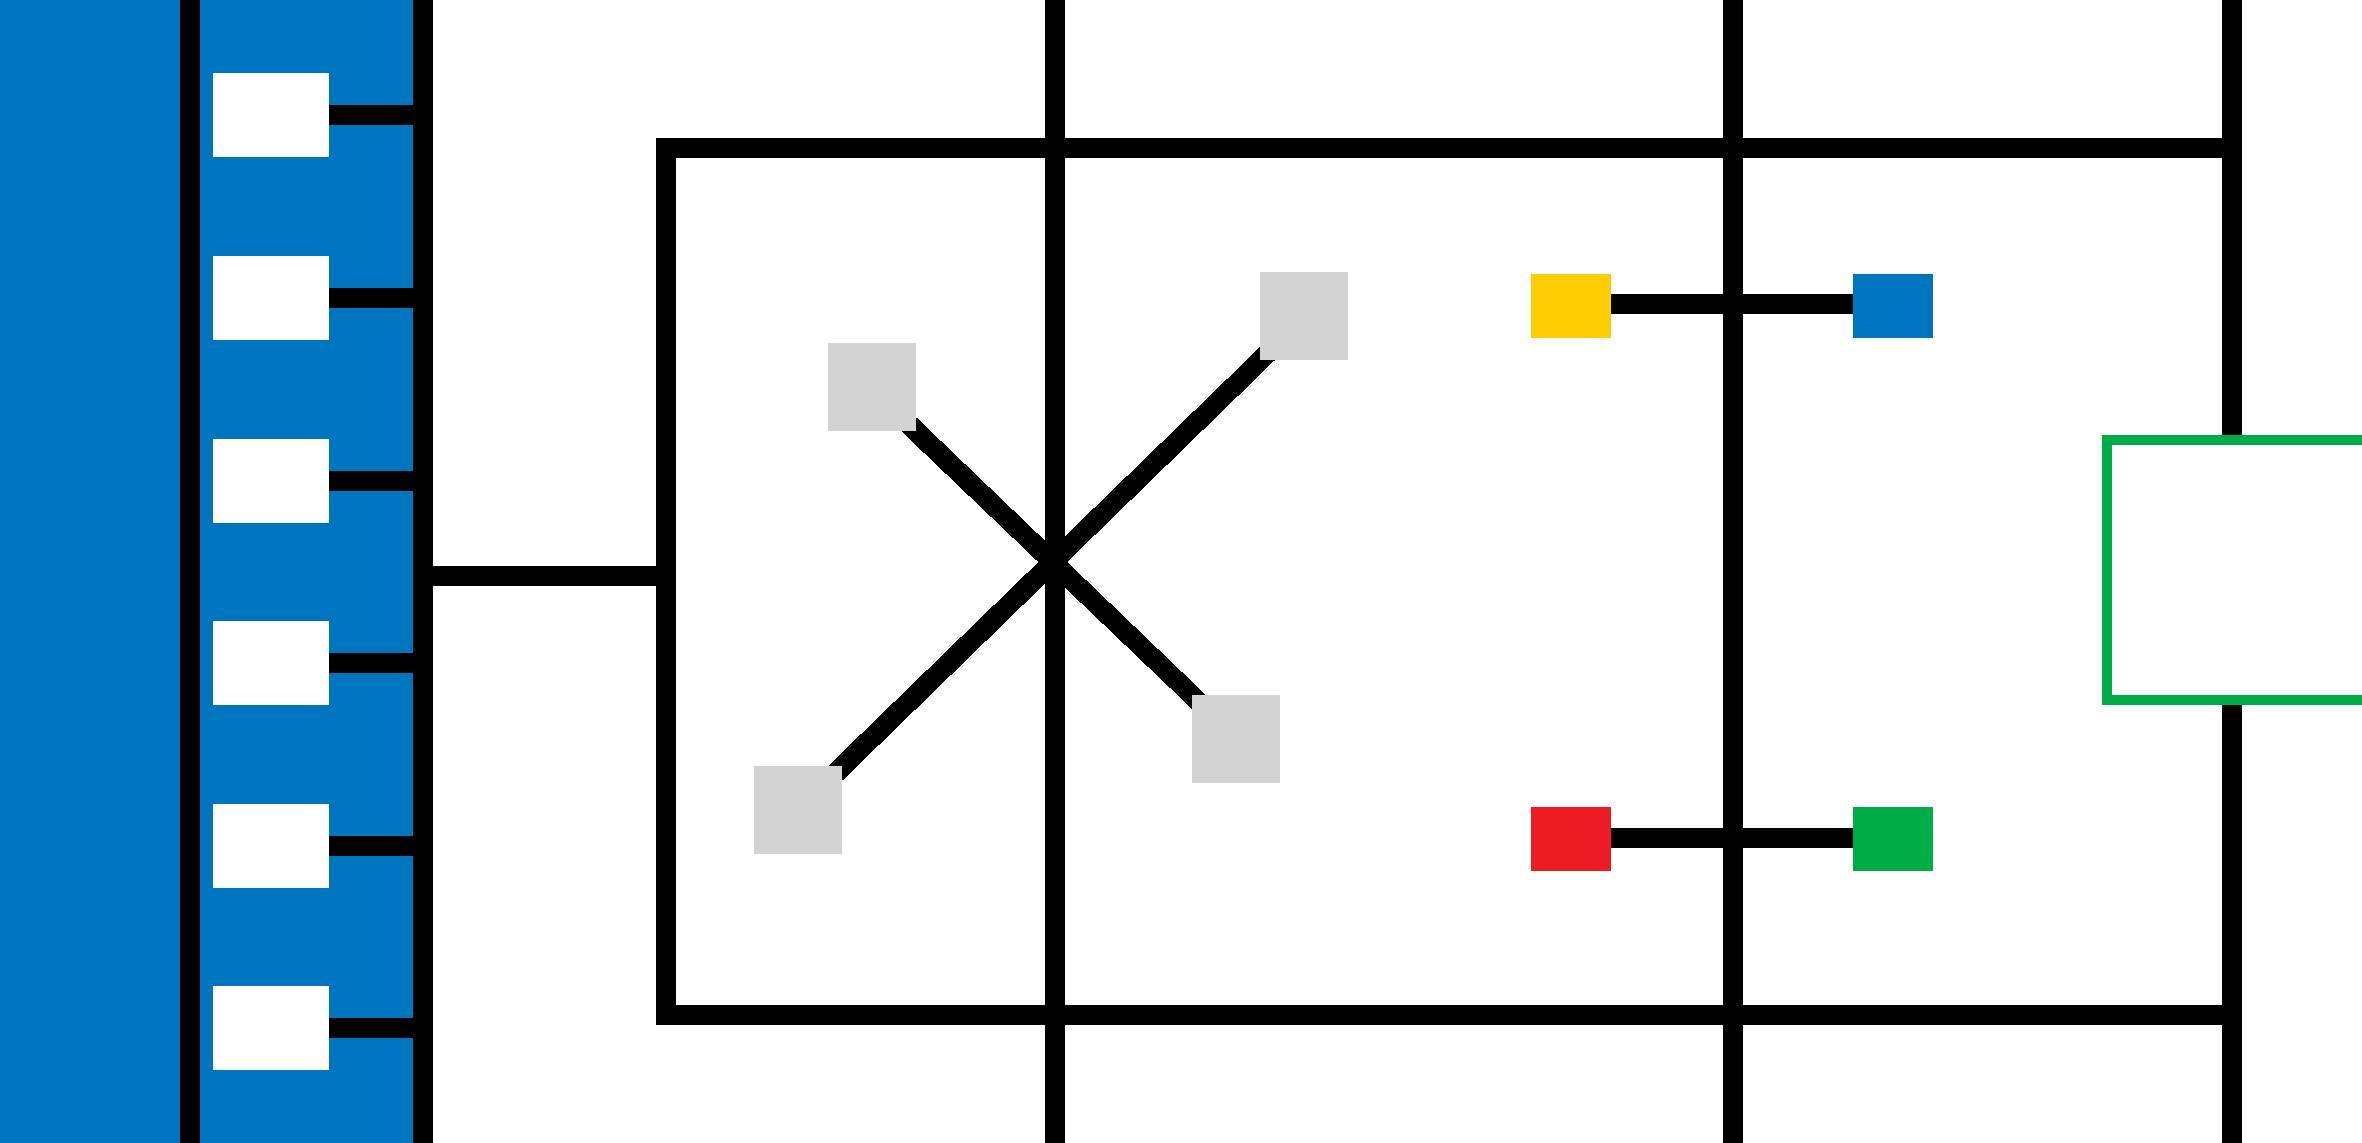
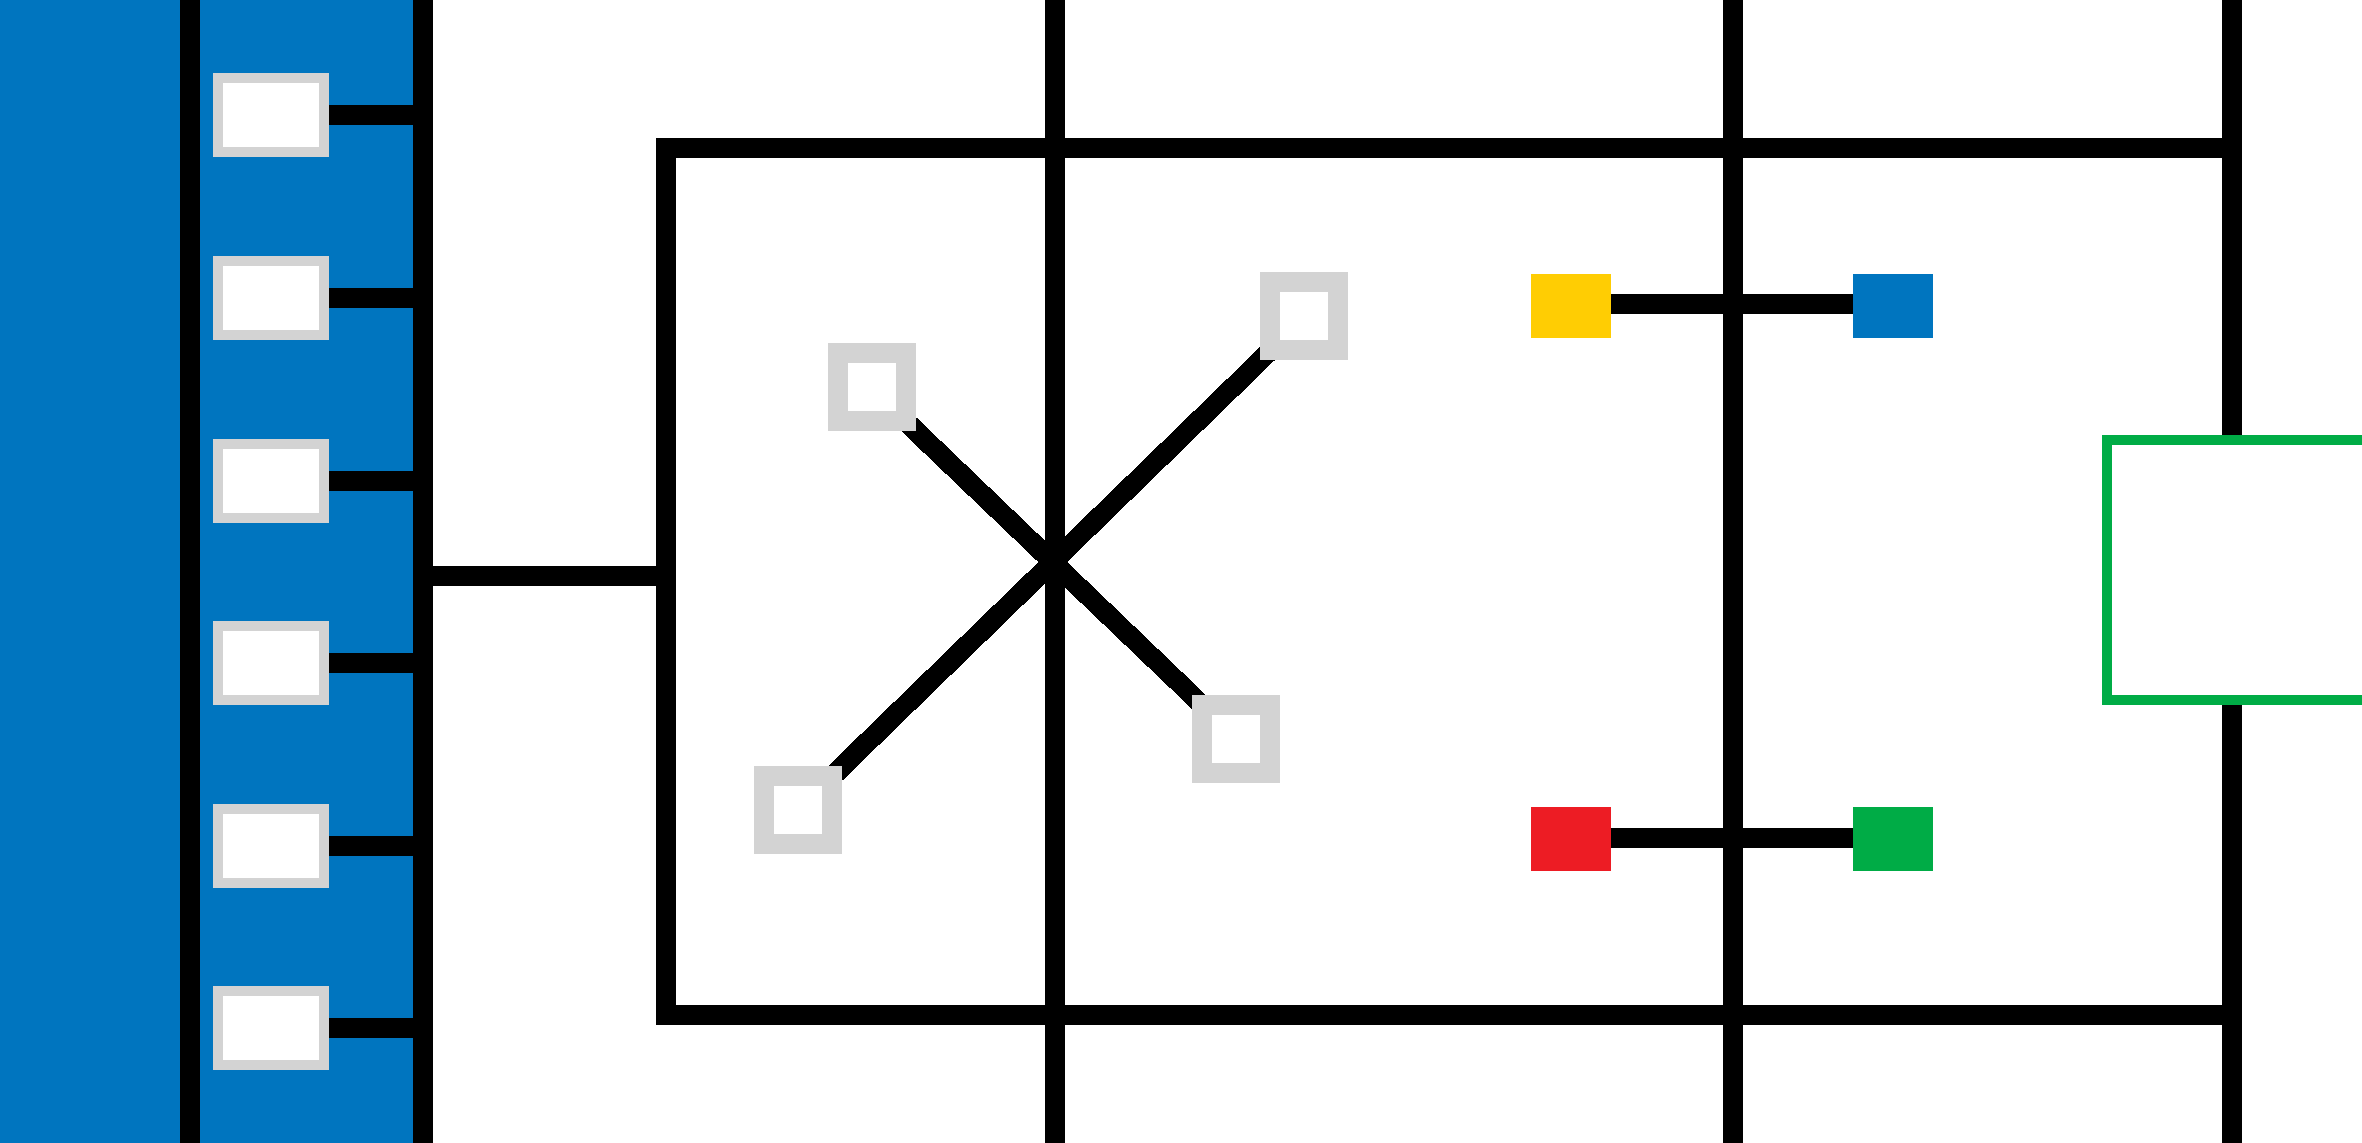
Allowed for inverted display

diff --git a/EV3/src/EV3/DataSender.java b/EV3/src/EV3/DataSender.java
@@ -18,20 +18,19 @@ import java.io.IOException;
 import java.net.ServerSocket;
 import java.net.Socket;
 
-public final class DataSender implements NewEV3LogMessageListener {
+public final class DataSender {
     private static final String LOG_TAG = DataSender.class.getSimpleName();
-
-    private static final DataSender dataSender = new DataSender();
 
     private static DataOutputStream dos;
     private static boolean isConnected = false;
 
-    private DataSender() {
-        Logger.setListener(this);
-    }
-
-    public static DataSender get() {
-        return dataSender;
+    static {
+        Logger.setListener(new NewEV3LogMessageListener() {
+            @Override
+            public void notifyNewEV3Message(String message) {
+                DataSender.notifyNewEV3Message(message);
+            }
+        }); // To attach to logger
     }
 
     static void connect() {
@@ -52,7 +51,7 @@ public final class DataSender implements NewEV3LogMessageListener {
         Logger.info(LOG_TAG, "Connected to Robotics2018.PC");
     }
 
-    public synchronized void notifyNewEV3Message(@NotNull String message) {
+    private static synchronized void notifyNewEV3Message(@NotNull String message) {
         if (isConnected) {
             try {
                 dos.writeByte(EventTypes.LOG.ordinal());

diff --git a/ImageGenerator/src/generator/ImageGenerator.java b/ImageGenerator/src/generator/ImageGenerator.java
@@ -80,13 +80,20 @@ public class ImageGenerator {
         regions.add(new Rectangle(Color.LIGHTGRAY, 753.5F, 766, 88, 88)); //Bottom-left
         regions.add(new Rectangle(Color.LIGHTGRAY, 1191.5F, 695, 88, 88)); //Bottom-right
 
+        //Containers base white small rectangle
+        regions.add(new Rectangle(Color.WHITE, 847.5F, 363, 48, 48)); //Top-left
+        regions.add(new Rectangle(Color.WHITE, 1279.5F, 292, 48, 48)); //Top-right
+        regions.add(new Rectangle(Color.WHITE, 773.5F, 786, 48, 48)); //Bottom-left
+        regions.add(new Rectangle(Color.WHITE, 1211.5F, 715, 48, 48)); //Bottom-right
+
         //Starting area
         regions.add(new Rectangle(ColorJavaLejos.MAP_GREEN, 2102, 435, 260, 270));
         regions.add(new Rectangle(Color.WHITE, 2112, 445, 250, 250));
 
         //Boats
         for (int i = 0; i < 6; i++) {
-            regions.add(new Rectangle(Color.WHITE, 212.5F, 73 + 182.6F * i, 116, 84));
+            regions.add(new Rectangle(Color.LIGHTGRAY, 212.5F, 73 + 182.6F * i, 116, 84));
+            regions.add(new Rectangle(Color.WHITE, 222.5F, 83 + 182.6F * i, 96, 64));
             regions.add(new Rectangle(Color.BLACK, 328.5F, 105 + 182.6F * i, 84, 20));
         }
     }

diff --git a/EV3/src/EV3/localization/SurfaceReadings.java b/EV3/src/EV3/localization/SurfaceReadings.java
@@ -25,13 +25,13 @@ public class SurfaceReadings implements Readings {
         int totalPixels = 0;
         int matchingPixels = 0;
 
-        for (int x = (int) location.x - RADIUS ; x <= location.x + RADIUS ; x++){
-            for (int y = (int) location.y - RADIUS ; y <= location.y + RADIUS ; y++){
-                if (location.distance(x,y) < RADIUS){ //If (x,y) within circle
-                    totalPixels ++;
+        for (int x = (int) location.x - RADIUS; x <= location.x + RADIUS; x++) {
+            for (int y = (int) location.y - RADIUS; y <= location.y + RADIUS; y++) {
+                if (location.distance(x, y) < RADIUS) { //If (x,y) within circle
+                    totalPixels++;
 
-                    if (SurfaceMap.getColorAtPoint(new Point(x,y)) == color){
-                        matchingPixels ++;
+                    if (SurfaceMap.getColorAtPoint(x, y) == color) {
+                        matchingPixels++;
                     }
                 }
             }

diff --git a/Ressource/src/Common/mapping/SurfaceMap.java b/Ressource/src/Common/mapping/SurfaceMap.java
@@ -33,12 +33,8 @@ public class SurfaceMap implements Displayable {
         }
     }
 
-    public static boolean contains(@NotNull Point point) {
-        return point.x >= 0 && point.x < image.getWidth() && point.y >= 0 && point.y < image.getHeight();
-    }
-
-    public static int getColorAtPoint(Point point) {
-        return ColorJavaLejos.getLejosColor(pixelReader.getColor((int) point.x, (int) point.y));
+    public static int getColorAtPoint(float x, float y) {
+        return ColorJavaLejos.getLejosColor(pixelReader.getColor((int) x, (int) (image.getHeight() - y)));
     }
 
     public static double getHeight() {
@@ -52,5 +48,10 @@ public class SurfaceMap implements Displayable {
     @Override
     public void displayOnGui(@NotNull GraphicsContext g) {
         g.drawImage(image, 0, 0);
+    }
+
+    @Override
+    public boolean invert() {
+        return false;
     }
 }

diff --git a/Ressource/src/Common/GUI/Displayable.java b/Ressource/src/Common/GUI/Displayable.java
@@ -10,5 +10,18 @@ import javafx.scene.canvas.GraphicsContext;
 Any object that can be draw onto the Common.GUI should implement
  */
 public interface Displayable {
+
+    /**
+     * Called by JavaFX to request the Object to be draw on the Graphics
+     * @param g Graphics object should be drawn on
+     */
     void displayOnGui(GraphicsContext g);
+
+    /**
+     * JavaFx has an inverted display ( (0,0) is the top left). However most of the data uses (0,0) in bottom left.
+     * If invert true JavaFX will flip to allow (0,0) to be in the bottom left when being displayed
+     *
+     * @return true if the object should be displayed with (0,0) in bottom left (traditional cartesian)
+     */
+    boolean invert();
 }

diff --git a/EV3/src/EV3/hardware/ColorSensor.java b/EV3/src/EV3/hardware/ColorSensor.java
@@ -8,6 +8,7 @@ import Common.Config;
 import Common.mapping.SurfaceMap;
 import EV3.localization.RobotPoseProvider;
 import lejos.hardware.sensor.EV3ColorSensor;
+import lejos.robotics.navigation.Pose;
 import org.jetbrains.annotations.Nullable;
 
 /**
@@ -27,7 +28,8 @@ public final class ColorSensor {
 
     public static int getSurfaceColor() {
         if (surfaceColorSensor == null) {
-            return SurfaceMap.getColorAtPoint(RobotPoseProvider.get().getPose().getLocation());
+            Pose currentPose = RobotPoseProvider.get().getPose();
+            return SurfaceMap.getColorAtPoint(currentPose.getX(), currentPose.getY());
         } else {
             return surfaceColorSensor.getColorID();
         }

diff --git a/Ressource/src/Common/GUI/DisplayablePath.java b/Ressource/src/Common/GUI/DisplayablePath.java
@@ -10,6 +10,7 @@ import javafx.scene.paint.Color;
 import lejos.robotics.navigation.Pose;
 import lejos.robotics.navigation.Waypoint;
 import lejos.robotics.pathfinding.Path;
+import org.jetbrains.annotations.Contract;
 import org.jetbrains.annotations.NotNull;
 
 public final class DisplayablePath extends Path implements Displayable {
@@ -35,5 +36,11 @@ public final class DisplayablePath extends Path implements Displayable {
             g.strokeLine((int) previousWaypoint.x, (int) previousWaypoint.y, (int) waypoint.x, (int) waypoint.y);
             previousWaypoint = waypoint;
         }
+    }
+
+    @Contract(pure = true)
+    @Override
+    public boolean invert() {
+        return true;
     }
 }

diff --git a/EV3/tests/EV3/localization/UtilTest.java b/EV3/tests/EV3/localization/UtilTest.java
@@ -1,0 +1,29 @@
+/*
+ * Copyright (c) [2018] [Jonathan McIntosh, Martin Staadecker, Ryan Zazo]
+ */
+
+package EV3.localization;
+
+import lejos.robotics.navigation.Move;
+import lejos.robotics.navigation.Pose;
+import org.junit.jupiter.api.Assertions;
+import org.junit.jupiter.api.Test;
+
+import static org.junit.jupiter.api.Assertions.*;
+
+class UtilTest {
+
+    @Test
+    void movePose() {
+        Pose newPose = Util.movePose(new Pose(10, 10, 90), new Move(30, 0, true));
+
+        Assertions.assertEquals(newPose.getX(), 10);
+        Assertions.assertEquals(newPose.getY(), 40);
+        Assertions.assertEquals(newPose.getHeading(), 90);
+
+    }
+
+    @Test
+    void subtractMove() {
+    }
+}

diff --git a/PC/src/PC/Connection.java b/PC/src/PC/Connection.java
@@ -16,7 +16,7 @@ import java.net.Socket;
 /**
  * Manages the connection to the EV3 and calls a listener when new data arrives
  */
-public class Connection {
+class Connection {
     private static final String LOG_TAG = Connection.class.getSimpleName();
 
     private static Socket socket;
@@ -24,7 +24,7 @@ public class Connection {
 
     private volatile static DataChangeListener listener;
 
-    public static void setListener(DataChangeListener listener) {
+    static void setListener(DataChangeListener listener) {
         Connection.listener = listener;
     }
 

diff --git a/PC/src/PC/Layer.java b/PC/src/PC/Layer.java
@@ -22,8 +22,12 @@ class Layer extends Canvas {
 
         this.displayable = displayable;
 
-        getGraphicsContext2D().scale(Config.GUI_DISPLAY_RATIO, Config.GUI_DISPLAY_RATIO);
-
+        if (displayable.invert()) {
+            getGraphicsContext2D().scale(Config.GUI_DISPLAY_RATIO, -Config.GUI_DISPLAY_RATIO);
+            getGraphicsContext2D().translate(0, -getHeight());
+        } else {
+            getGraphicsContext2D().scale(Config.GUI_DISPLAY_RATIO, Config.GUI_DISPLAY_RATIO);
+        }
     }
 
     Displayable getDisplayable() {

diff --git a/ImageGenerator/src/generator/ColorRegion.java b/ImageGenerator/src/generator/ColorRegion.java
@@ -7,7 +7,6 @@ package generator;
 import Common.GUI.Displayable;
 import javafx.scene.canvas.GraphicsContext;
 import javafx.scene.paint.Color;
-import lejos.robotics.geometry.Point;
 import org.jetbrains.annotations.NotNull;
 
 abstract class ColorRegion implements Displayable {

diff --git a/PC/src/PC/GUI.java b/PC/src/PC/GUI.java
@@ -106,7 +106,4 @@ public final class GUI extends Application implements DataChangeListener {
         Platform.exit();
     }
 
-    public static Pose getCurrentPose() {
-        return ((ParticleData) layerMCLData.getDisplayable()).getCurrentPose();
-    }
 }
